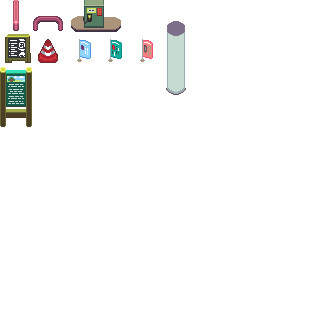
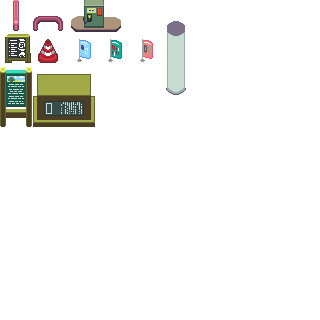
added assets and unit test

Changed region(s): [[0.0938, 0.2188, 0.3125, 0.4062]]

diff --git a/lib/assets.dart b/lib/assets.dart
@@ -1,7 +1,7 @@
 // GENERATED CODE - DO NOT MODIFY BY HAND
 
 // **************************************************************************
-// Total assets: 268.
+// Total assets: 273.
 // Generated by https://pub.dev/packages/assets_gen.
 // **************************************************************************
 
@@ -201,6 +201,9 @@ class Assets {
   static const String assets_images_npcs_woman_png = 'assets/images/npcs/woman.png';
   static const String gomiland$assets_images_npcs_woman_png = 'packages/gomiland/assets/images/npcs/woman.png';
 
+  static const String assets_images_objects_digger_png = 'assets/images/objects/digger.png';
+  static const String gomiland$assets_images_objects_digger_png = 'packages/gomiland/assets/images/objects/digger.png';
+
   static const String assets_images_objects_general_sign_png = 'assets/images/objects/general_sign.png';
   static const String gomiland$assets_images_objects_general_sign_png = 'packages/gomiland/assets/images/objects/general_sign.png';
 
@@ -210,11 +213,17 @@ class Assets {
   static const String assets_images_objects_park_lamp_png = 'assets/images/objects/park_lamp.png';
   static const String gomiland$assets_images_objects_park_lamp_png = 'packages/gomiland/assets/images/objects/park_lamp.png';
 
+  static const String assets_images_objects_samurai_png = 'assets/images/objects/samurai.png';
+  static const String gomiland$assets_images_objects_samurai_png = 'packages/gomiland/assets/images/objects/samurai.png';
+
   static const String assets_images_objects_stone_light_png = 'assets/images/objects/stone_light.png';
   static const String gomiland$assets_images_objects_stone_light_png = 'packages/gomiland/assets/images/objects/stone_light.png';
 
   static const String assets_images_objects_street_lamp_png = 'assets/images/objects/street_lamp.png';
   static const String gomiland$assets_images_objects_street_lamp_png = 'packages/gomiland/assets/images/objects/street_lamp.png';
+
+  static const String assets_images_objects_vacbot_png = 'assets/images/objects/vacbot.png';
+  static const String gomiland$assets_images_objects_vacbot_png = 'packages/gomiland/assets/images/objects/vacbot.png';
 
   static const String assets_images_player_female_png = 'assets/images/player/female.png';
   static const String gomiland$assets_images_player_female_png = 'packages/gomiland/assets/images/player/female.png';
@@ -344,6 +353,9 @@ class Assets {
 
   static const String assets_images_rubbish_toilet_roll_png = 'assets/images/rubbish/toilet_roll.png';
   static const String gomiland$assets_images_rubbish_toilet_roll_png = 'packages/gomiland/assets/images/rubbish/toilet_roll.png';
+
+  static const String assets_images_spritesheets_beehive_png = 'assets/images/spritesheets/beehive.png';
+  static const String gomiland$assets_images_spritesheets_beehive_png = 'packages/gomiland/assets/images/spritesheets/beehive.png';
 
   static const String assets_images_spritesheets_coin_small_png = 'assets/images/spritesheets/coin_small.png';
   static const String gomiland$assets_images_spritesheets_coin_small_png = 'packages/gomiland/assets/images/spritesheets/coin_small.png';
@@ -545,6 +557,9 @@ class Assets {
 
   static const String assets_images_trees_tree_sakura_png = 'assets/images/trees/tree_sakura.png';
   static const String gomiland$assets_images_trees_tree_sakura_png = 'packages/gomiland/assets/images/trees/tree_sakura.png';
+
+  static const String assets_images_trees_tree_sakura_bare_png = 'assets/images/trees/tree_sakura_bare.png';
+  static const String gomiland$assets_images_trees_tree_sakura_bare_png = 'packages/gomiland/assets/images/trees/tree_sakura_bare.png';
 
   static const String assets_images_trees_tree_spiky_png = 'assets/images/trees/tree_spiky.png';
   static const String gomiland$assets_images_trees_tree_spiky_png = 'packages/gomiland/assets/images/trees/tree_spiky.png';

diff --git a/lib/game/npcs/mr_mrs_star.dart b/lib/game/npcs/mr_mrs_star.dart
@@ -23,7 +23,8 @@ class MrStar extends Npc with HasGameReference<GomilandGame> {
 
   @override
   void onLoad() async {
-    final image = await Flame.images.load(Assets.assets_images_npcs_mr_star_png);
+    final image =
+        await Flame.images.load(Assets.assets_images_npcs_mr_star_png);
     final spriteSheet = SpriteSheet(
       image: image,
       srcSize: Vector2.all(tileSize),
@@ -67,6 +68,7 @@ class MrStar extends Npc with HasGameReference<GomilandGame> {
     _facePlayer(playerPosition);
     int progress =
         getCharProgress(RubbishType.food, game.progressStateBloc.state);
+    String timeOfDay = getTimeOfDay(game.gameStateBloc.state.minutes);
 
     DialogueControllerComponent dialogueControllerComponent =
         game.dialogueControllerComponent;
@@ -74,6 +76,7 @@ class MrStar extends Npc with HasGameReference<GomilandGame> {
 
     yarnProject
       ..variables.setVariable('\$progress', progress)
+      ..variables.setVariable('\$timeOfDay', timeOfDay)
       ..parse(await rootBundle.loadString(Assets.assets_yarn_star_yarn));
     DialogueRunner dialogueRunner = DialogueRunner(
         yarnProject: yarnProject, dialogueViews: [dialogueControllerComponent]);
@@ -92,7 +95,8 @@ class MrsStar extends Npc with HasGameReference<GomilandGame> {
 
   @override
   void onLoad() async {
-    final image = await Flame.images.load(Assets.assets_images_npcs_mrs_star_png);
+    final image =
+        await Flame.images.load(Assets.assets_images_npcs_mrs_star_png);
     final spriteSheet = SpriteSheet(
       image: image,
       srcSize: Vector2.all(tileSize),
@@ -136,6 +140,7 @@ class MrsStar extends Npc with HasGameReference<GomilandGame> {
     _facePlayer(playerPosition);
     int progress =
         getCharProgress(RubbishType.food, game.progressStateBloc.state);
+    String timeOfDay = getTimeOfDay(game.gameStateBloc.state.minutes);
 
     DialogueControllerComponent dialogueControllerComponent =
         game.dialogueControllerComponent;
@@ -143,6 +148,7 @@ class MrsStar extends Npc with HasGameReference<GomilandGame> {
 
     yarnProject
       ..variables.setVariable('\$progress', progress)
+      ..variables.setVariable('\$timeOfDay', timeOfDay)
       ..parse(await rootBundle.loadString(Assets.assets_yarn_star_yarn));
     DialogueRunner dialogueRunner = DialogueRunner(
         yarnProject: yarnProject, dialogueViews: [dialogueControllerComponent]);

diff --git a/lib/game/objects/buildings/beehive.dart b/lib/game/objects/buildings/beehive.dart
@@ -7,8 +7,8 @@ import 'package:gomiland/assets.dart';
 import 'package:gomiland/constants/constants.dart';
 import 'package:gomiland/game/player/player.dart';
 
-class TeaShop extends SpriteAnimationComponent with CollisionCallbacks {
-  TeaShop({
+class Beehive extends SpriteAnimationComponent with CollisionCallbacks {
+  Beehive({
     required Vector2 position,
     required Vector2 size,
   }) : super(position: position, size: size);
@@ -16,7 +16,7 @@ class TeaShop extends SpriteAnimationComponent with CollisionCallbacks {
   @override
   Future<void> onLoad() async {
     final image =
-    await Flame.images.load(Assets.assets_images_spritesheets_beehive_png);
+    await Flame.images.load(Assets.assets_images_buildings_tea_shop_png);
     final spriteSheet = SpriteSheet(
       image: image,
       srcSize: Vector2(192, 192),
@@ -96,6 +96,14 @@ class TeaShop extends SpriteAnimationComponent with CollisionCallbacks {
           spriteSheet.createFrameData(8, 5, stepTime: stepTime),
           spriteSheet.createFrameData(8, 6, stepTime: stepTime),
           spriteSheet.createFrameData(8, 7, stepTime: stepTime),
+          spriteSheet.createFrameData(9, 0, stepTime: stepTime),
+          spriteSheet.createFrameData(9, 1, stepTime: stepTime),
+          spriteSheet.createFrameData(9, 2, stepTime: stepTime),
+          spriteSheet.createFrameData(9, 3, stepTime: stepTime),
+          spriteSheet.createFrameData(9, 4, stepTime: stepTime),
+          spriteSheet.createFrameData(9, 5, stepTime: stepTime),
+          spriteSheet.createFrameData(9, 6, stepTime: stepTime),
+          spriteSheet.createFrameData(9, 7, stepTime: stepTime),
         ]));
 
     RectangleHitbox hitbox = RectangleHitbox(

diff --git a/test/npc_utils_test.dart b/test/npc_utils_test.dart
@@ -1,0 +1,23 @@
+import 'package:flutter_test/flutter_test.dart';
+import 'package:gomiland/constants/constants.dart';
+import 'package:gomiland/game/npcs/utils.dart';
+
+void main() {
+  test('test getTimeOfDay', () {
+    const int midnight = nightStartMins;
+    const int dawn = morningStartMins - 1;
+    const int morning = morningStartMins;
+    const int prenoon = afternoonStartMins - 1;
+    const int afternoon = afternoonStartMins;
+    const int dusk = eveningStartMins - 1;
+    const int evening = eveningStartMins;
+
+    expect(getTimeOfDay(midnight), 'evening');
+    expect(getTimeOfDay(dawn), 'evening');
+    expect(getTimeOfDay(morning), 'morning');
+    expect(getTimeOfDay(prenoon), 'morning');
+    expect(getTimeOfDay(afternoon), 'afternoon');
+    expect(getTimeOfDay(dusk), 'afternoon');
+    expect(getTimeOfDay(evening), 'evening');
+  });
+}

diff --git a/lib/game/npcs/utils.dart b/lib/game/npcs/utils.dart
@@ -1,4 +1,5 @@
 import 'package:flame/components.dart';
+import 'package:gomiland/constants/constants.dart';
 import 'package:gomiland/controllers/progress/progress_state_bloc.dart';
 import 'package:gomiland/game/data/rubbish/rubbish_type.dart';
 import 'package:gomiland/game/objects/obsticle.dart';
@@ -70,3 +71,13 @@ Obstacle npcObstacle(Vector2 position) => Obstacle(
       position: Vector2(position.x + 6, position.y),
       size: Vector2(20, 32),
     );
+
+String getTimeOfDay(int minutes) {
+  if (minutes >= morningStartMins && minutes < afternoonStartMins) {
+    return 'morning';
+  } else if (minutes >= afternoonStartMins && minutes < eveningStartMins) {
+    return 'afternoon';
+  } else {
+    return 'evening';
+  }
+}

diff --git a/lib/game/npcs/himiko.dart b/lib/game/npcs/himiko.dart
@@ -133,14 +133,15 @@ class Himiko extends Npc with HasGameReference<GomilandGame> {
         yarnProject: yarnProject, dialogueViews: [dialogueControllerComponent]);
     await dialogueRunner.startDialogue(getDialogueName());
     game.unfreezePlayer();
-    showHowToPlay();
+    if (_isTutorial) {
+      showHowToPlay();
+    }
   }
 
   @override
   Future<void> startConversation(Vector2 playerPosition) async {
     game.freezePlayer();
     _facePlayer(playerPosition);
-
     _talkToHimiko();
   }
 
